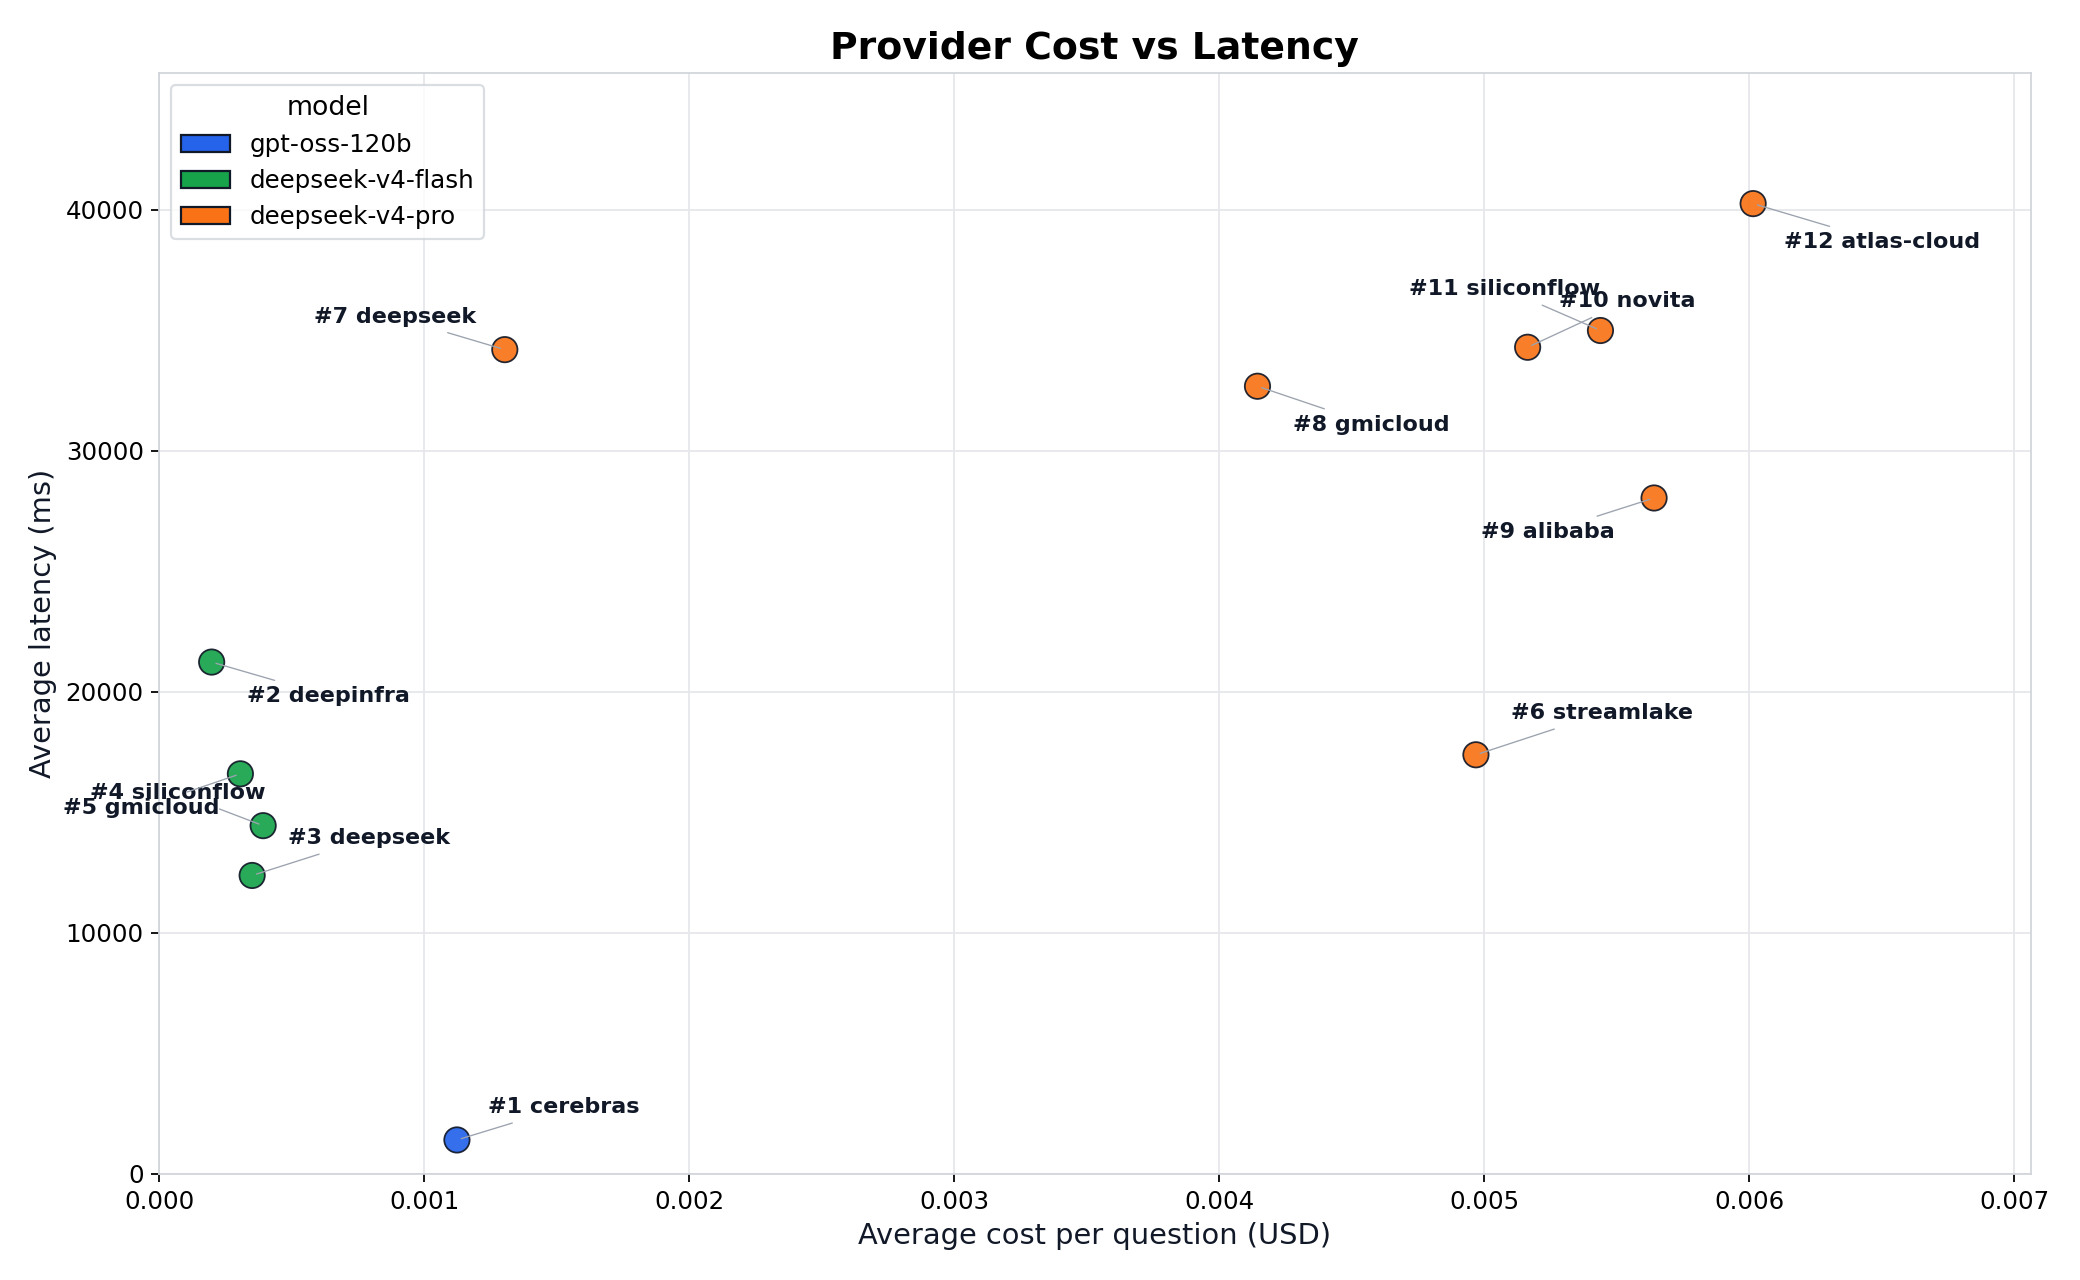
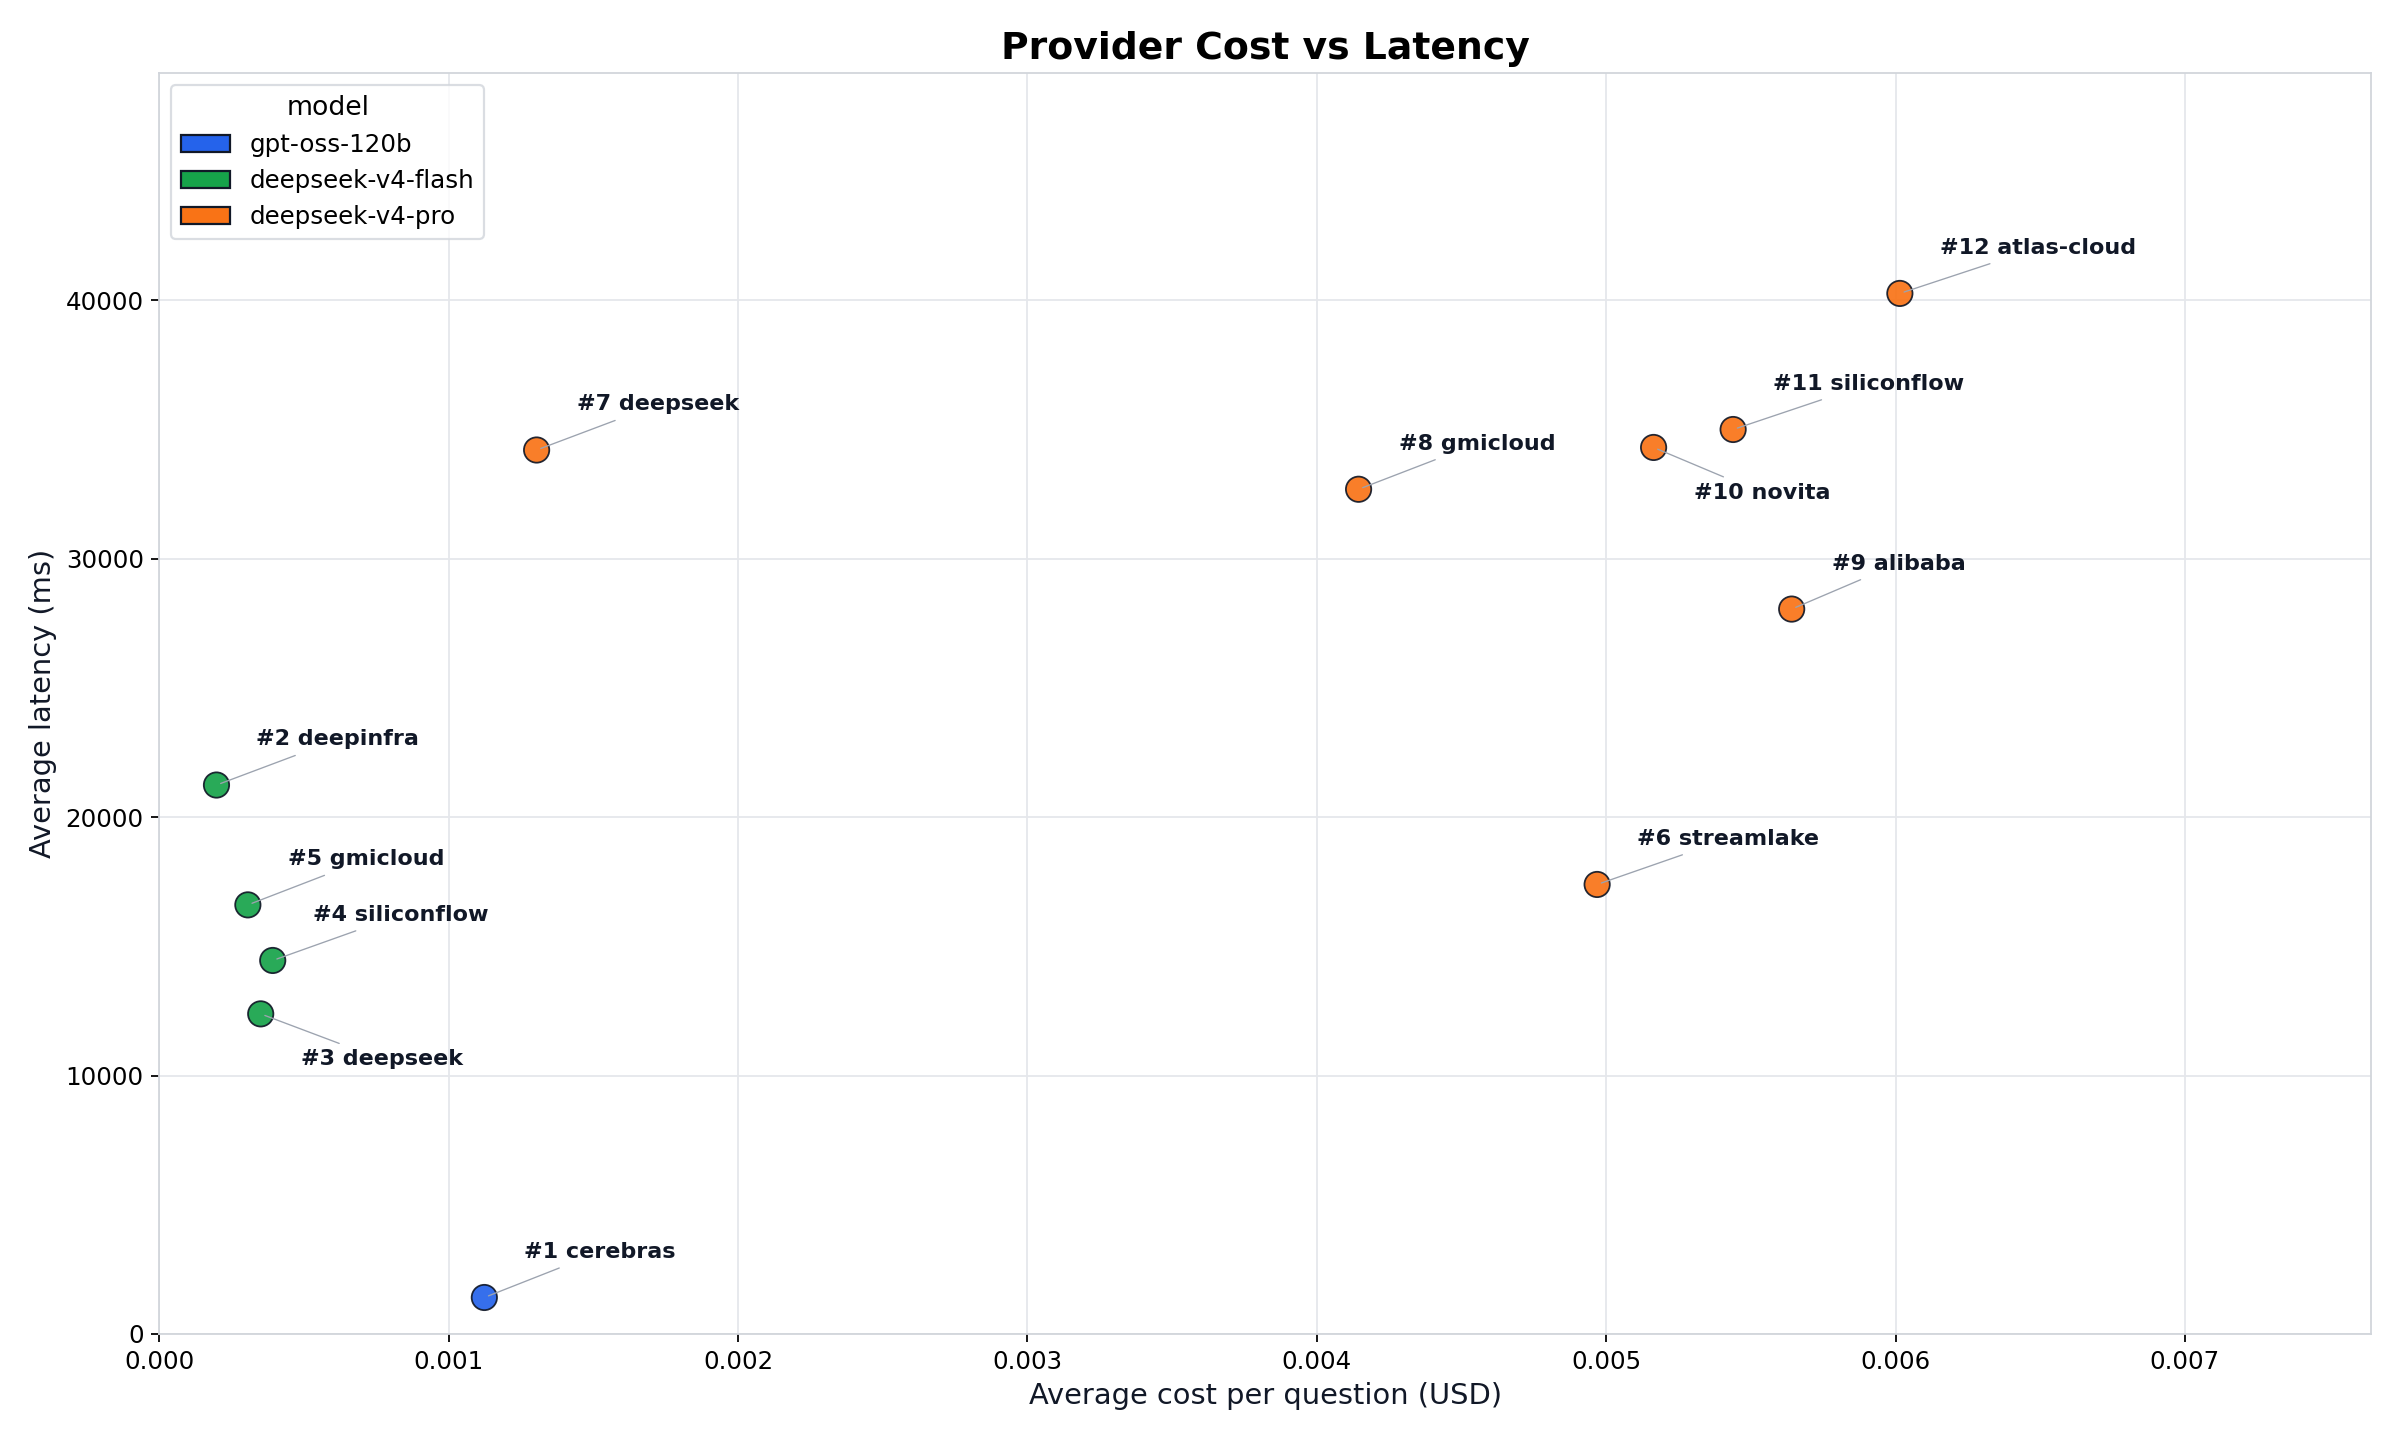
Refine no-tool benchmark report charts

diff --git a/docs/benchmark/analyze_no_tool_results.py b/docs/benchmark/analyze_no_tool_results.py
@@ -437,6 +437,7 @@ def save_charts(plt, provider_summary, data, output_dir: Path) -> None:
         print("matplotlib is not installed; skipped chart generation.")
         return
     from matplotlib.patches import Patch
+    from matplotlib.transforms import Bbox
 
     plt.rcParams.update(
         {
@@ -574,7 +575,7 @@ def save_charts(plt, provider_summary, data, output_dir: Path) -> None:
     )
 
     scatter_data = chart_data.sort_values("display_id")
-    fig, ax = plt.subplots(figsize=(13, 8))
+    fig, ax = plt.subplots(figsize=(15, 9))
     ax.scatter(
         scatter_data["avg_total_cost_usd"],
         scatter_data["avg_latency_ms"],
@@ -585,38 +586,12 @@ def save_charts(plt, provider_summary, data, output_dir: Path) -> None:
         alpha=0.92,
         zorder=3,
     )
-    label_offsets = [
-        (14, 12),
-        (16, -18),
-        (16, 14),
-        (-78, 12),
-        (-80, -18),
-        (16, 16),
-        (-86, 12),
-        (16, -20),
-        (-78, -18),
-        (14, 18),
-        (-86, 16),
-        (14, -20),
-    ]
-    for index, row in enumerate(scatter_data.itertuples(index=False)):
-        offset = label_offsets[index % len(label_offsets)]
-        ax.annotate(
-            f"#{int(row.display_id)} {row.primary_provider_slug}",
-            (row.avg_total_cost_usd, row.avg_latency_ms),
-            xytext=offset,
-            textcoords="offset points",
-            fontsize=10,
-            color="#111827",
-            fontweight="bold",
-            arrowprops={"arrowstyle": "-", "color": "#9CA3AF", "lw": 0.6},
-        )
     ax.set_title("Provider Cost vs Latency")
     ax.set_xlabel("Average cost per question (USD)")
     ax.set_ylabel("Average latency (ms)")
     ax.grid(color="#E5E7EB", linewidth=0.8)
     ax.set_axisbelow(True)
-    ax.legend(
+    legend = ax.legend(
         handles=legend_handles,
         title="model",
         loc="upper left",
@@ -628,9 +603,126 @@ def save_charts(plt, provider_summary, data, output_dir: Path) -> None:
     x_max = float(scatter_data["avg_total_cost_usd"].max())
     y_min = float(scatter_data["avg_latency_ms"].min())
     y_max = float(scatter_data["avg_latency_ms"].max())
-    ax.set_xlim(max(0, x_min - (x_max - x_min) * 0.12), x_max + (x_max - x_min) * 0.18)
-    ax.set_ylim(max(0, y_min - (y_max - y_min) * 0.12), y_max + (y_max - y_min) * 0.14)
+    ax.set_xlim(max(0, x_min - (x_max - x_min) * 0.16), x_max + (x_max - x_min) * 0.28)
+    ax.set_ylim(max(0, y_min - (y_max - y_min) * 0.16), y_max + (y_max - y_min) * 0.22)
     fig.tight_layout()
+
+    fig.canvas.draw()
+    renderer = fig.canvas.get_renderer()
+    occupied_boxes = [legend.get_window_extent(renderer).expanded(1.04, 1.08)]
+    for row in scatter_data.itertuples(index=False):
+        x_px, y_px = ax.transData.transform((row.avg_total_cost_usd, row.avg_latency_ms))
+        occupied_boxes.append(Bbox.from_bounds(x_px - 15, y_px - 15, 30, 30))
+
+    label_offsets = [
+        (18, 16),
+        (18, -16),
+        (-18, 16),
+        (-18, -16),
+        (36, 34),
+        (36, -34),
+        (-36, 34),
+        (-36, -34),
+        (0, 48),
+        (0, -48),
+        (68, 0),
+        (-68, 0),
+        (92, 28),
+        (92, -28),
+        (-92, 28),
+        (-92, -28),
+        (0, 74),
+        (0, -74),
+        (132, 0),
+        (-132, 0),
+    ]
+    figure_box = fig.bbox.expanded(0.98, 0.98)
+
+    def text_align(offset):
+        x_offset, y_offset = offset
+        if x_offset < 0:
+            ha = "right"
+        elif x_offset > 0:
+            ha = "left"
+        else:
+            ha = "center"
+        if y_offset < 0:
+            va = "top"
+        elif y_offset > 0:
+            va = "bottom"
+        else:
+            va = "center"
+        return ha, va
+
+    def overflow_score(box) -> float:
+        return (
+            max(0, figure_box.x0 - box.x0)
+            + max(0, box.x1 - figure_box.x1)
+            + max(0, figure_box.y0 - box.y0)
+            + max(0, box.y1 - figure_box.y1)
+        )
+
+    def overlap_score(box) -> float:
+        score = overflow_score(box) * 100
+        for occupied in occupied_boxes:
+            if box.overlaps(occupied):
+                score += 1
+                score += (
+                    max(0, min(box.x1, occupied.x1) - max(box.x0, occupied.x0))
+                    * max(0, min(box.y1, occupied.y1) - max(box.y0, occupied.y0))
+                )
+        return score
+
+    for row in scatter_data.itertuples(index=False):
+        label = f"#{int(row.display_id)} {row.primary_provider_slug}"
+        best_offset = label_offsets[0]
+        best_box = None
+        best_score = float("inf")
+        for offset in label_offsets:
+            ha, va = text_align(offset)
+            annotation = ax.annotate(
+                label,
+                (row.avg_total_cost_usd, row.avg_latency_ms),
+                xytext=offset,
+                textcoords="offset points",
+                ha=ha,
+                va=va,
+                fontsize=10,
+                color="#111827",
+                fontweight="bold",
+                annotation_clip=False,
+                zorder=4,
+            )
+            fig.canvas.draw()
+            box = annotation.get_window_extent(renderer).expanded(1.08, 1.2)
+            annotation.remove()
+            score = overlap_score(box)
+            if score == 0:
+                best_offset = offset
+                best_box = box
+                break
+            if score < best_score:
+                best_offset = offset
+                best_box = box
+                best_score = score
+        if best_box is not None:
+            ha, va = text_align(best_offset)
+            ax.annotate(
+                label,
+                (row.avg_total_cost_usd, row.avg_latency_ms),
+                xytext=best_offset,
+                textcoords="offset points",
+                ha=ha,
+                va=va,
+                fontsize=10,
+                color="#111827",
+                fontweight="bold",
+                arrowprops={"arrowstyle": "-", "color": "#9CA3AF", "lw": 0.6},
+                annotation_clip=False,
+                zorder=4,
+            )
+            occupied_boxes.append(best_box)
+
     fig.savefig(charts_dir / "cost_vs_latency_scatter.png", dpi=160)
     plt.close(fig)
 

diff --git a/docs/benchmark/no_tool_chart_report.md b/docs/benchmark/no_tool_chart_report.md
@@ -1,6 +1,4 @@
-# no_tool Benchmark 통합 분석 리포트
-
-작성일: 2026-06-03
+# Model by provider Benchmark(no_tool) 통합 분석 리포트
 
 이 문서 하나에서 no_tool benchmark의 계산 기준, 입력 데이터, 차트, 실패 리포트, 후보 판단을 모두 확인한다.
 
@@ -9,9 +7,9 @@
 - 이 리포트는 tool을 연결하지 않은 **no_tool** benchmark 결과를 분석한다.
 - 동일한 360개 testcase를 model/provider별로 실행한 CSV를 기준으로 token, 비용, latency, 실패 여부, routing 검증만 비교한다.
 - 실제 RAG tool은 연결하지 않았고, 각 모델은 system prompt와 testcase 질문만 보고 답했다.
-- `with_tool` 결과와 섞어 비교하면 안 된다.
-- 답변 품질 평가는 별도 단계이며, 최종 provider 결정에는 품질 평가 결과를 함께 반영해야 한다.
+- `with_tool` 결과와 섞어 비교하지 않는다.
 - Qwen 3.7 Max는 비용 문제로 후보군에서 제외했고, 현재 분석 CSV에도 포함하지 않는다.
+- 답변 품질 평가는 별도 단계이며, 최종 provider 결정에는 품질 평가 결과를 함께 반영해야 한다.
 
 ## 입력 데이터
 
@@ -42,20 +40,19 @@ openai_gpt_oss_120b_cerebras_fp16.csv
 
 결과 CSV는 아래 주요 컬럼을 사용한다.
 
-```text
-timestamp, testcase_id, query_reference, answer,
-input_price_per_1m, output_price_per_1m,
-input_tokens, output_tokens, used_tokens,
-input_cost_usd, output_cost_usd, total_cost_usd,
-batch, difficulty, special_case,
-model_id, provider_order, primary_provider_slug,
-primary_provider_quantization, actual_provider, allow_fallbacks,
-endpoint_tools_supported, context_length, max_completion_tokens,
-quantization, openrouter_generation_id, latency_ms,
-langsmith_project, langsmith_tags, status, error
-```
+`timestamp`, `testcase_id`, `query_reference`, `answer`,
+`input_price_per_1m`, `output_price_per_1m`,
+`input_tokens`, `output_tokens`, `used_tokens`,
+`input_cost_usd`, `output_cost_usd`, `total_cost_usd`,
+`batch`, `difficulty`, `special_case`,
+`model_id`, `provider_order`, `primary_provider_slug`,
+`primary_provider_quantization`,`actual_provider`, `allow_fallbacks`,
+`endpoint_tools_supported`, `context_length`, `max_completion_tokens`,
+`quantization`, `openrouter_generation_id`, `latency_ms`,
+`langsmith_project`, `langsmith_tags`, `status`, `error`
 
-`query_reference`에는 기존 `query`, `expected_keywords`, `reference`, `judge_criteria`를 한 컬럼으로 묶었다. 이 기준은 후속 답변 품질 평가에 쓰는 참고값이고, 현재 no_tool 운영 지표 계산에는 token/비용/latency/실패/routing 값만 사용한다.
+- `query_reference` = 기존 `query`, `expected_keywords`, `reference`, `judge_criteria`를 한 컬럼으로 묶었다.
+- 이 기준은 후속 답변 품질 평가에 쓰는 참고값이고, 현재 no_tool 운영 지표 계산에는 token/비용/latency/실패/routing 값만 사용한다.
 
 ## 전처리와 계산 원칙
 
@@ -353,6 +350,12 @@ docs/benchmark/charts/*.png
 
 이 차트는 input과 output을 합친 평균 used token 수를 보여준다. 미세한 차이를 보기 위해 y축을 확대했다.
 
+- 평균 used token이 적은 1위는 `#2 deepseek-v4-flash / deepinfra`, `1,462.2`이다.
+- 평균 used token이 적은 2위는 `#1 gpt-oss-120b / cerebras`, `1,974.5`이다.
+- 평균 used token이 적은 3위는 `#5 deepseek-v4-flash / gmicloud`, `2,097.9`이다.
+- 평균 used token이 적은 4위는 `#4 deepseek-v4-flash / siliconflow`, `2,123.9`이다.
+- 평균 used token이 적은 5위는 `#3 deepseek-v4-flash / deepseek`, `2,159.4`이다.
+
 주의:
 
 - token 수가 낮다고 무조건 좋은 것은 아니다.
@@ -431,6 +434,8 @@ docs/benchmark/charts/*.png
 | #12 | `deepseek-v4-pro / atlas-cloud` | ✅ |  |  |  |  |  | 1 | 11 |
 | #7 | `deepseek-v4-pro / deepseek` |  |  |  |  |  |  | 0 | 12 |
 
+`#7 deepseek-v4-pro / deepseek`는 실패 `1`건이 있어서 성공률 100% 조건을 통과하지 못했다. 평균 비용 `0.00130400`은 `$0.001`보다 높고, 평균 latency `34,204ms`는 `20초`보다 높고, p95 latency `56,152ms`는 `30초`보다 높고, 평균 used token `2,408.9`는 `2,200`보다 높다. 그래서 체크가 0개다.
+
 ## 현재 결론
 
 no_tool strict 기준으로만 보면 후보 우선순위는 체크리스트 순위를 따른다.
@@ -445,9 +450,3 @@ no_tool strict 기준으로만 보면 후보 우선순위는 체크리스트 순
    - 평균 latency `1,411ms`, 평균 비용 `0.00112336`, 평균 used token `1,974.5`
 5. `#6 deepseek-v4-pro / streamlake`
    - 평균 latency `17,393ms`, 평균 비용 `0.00496864`, 평균 used token `2,432.3`
-
-최종 결정 전에 반드시 해야 할 일:
-
-- `query_reference`의 `expected_keywords`, `reference`, `judge_criteria`를 기준으로 답변 품질 점수를 붙인다.
-- `with_tool` benchmark를 별도로 돌려 no_tool 결과와 섞지 않고 비교한다.
-- 품질, 평균 비용, p95 latency, 실패율을 합산한 최종 ranking table을 만든다.